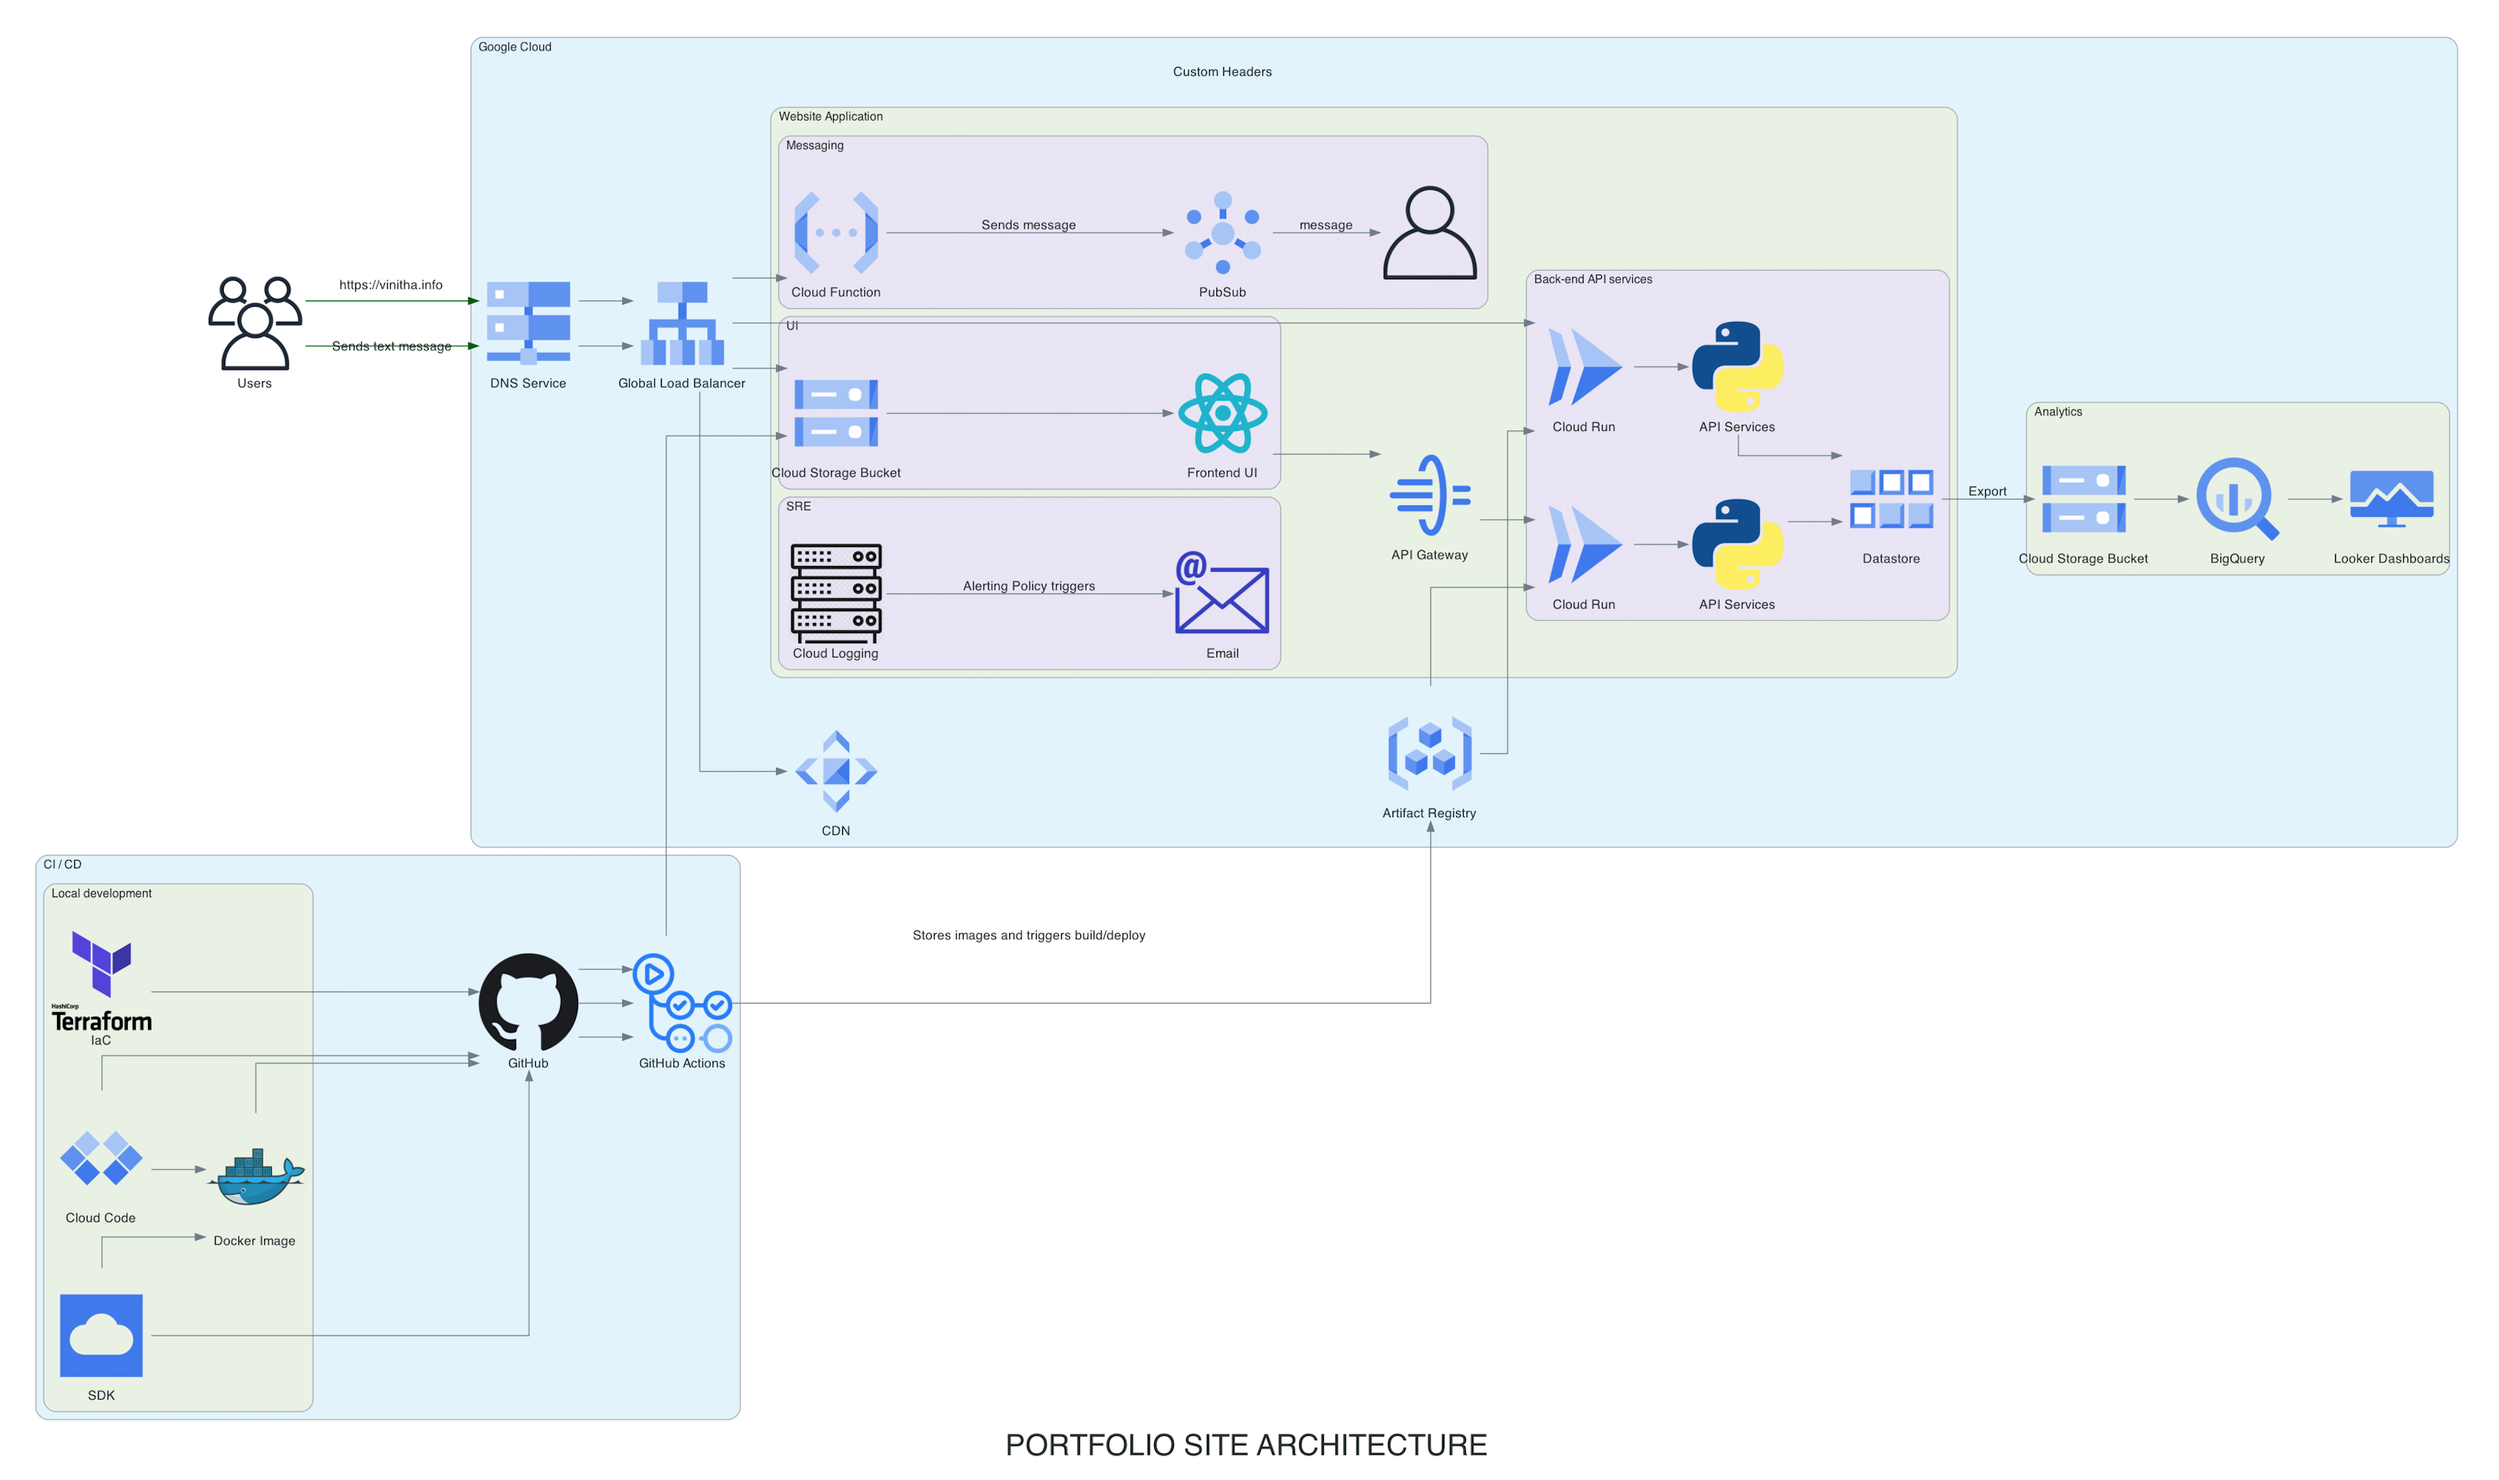
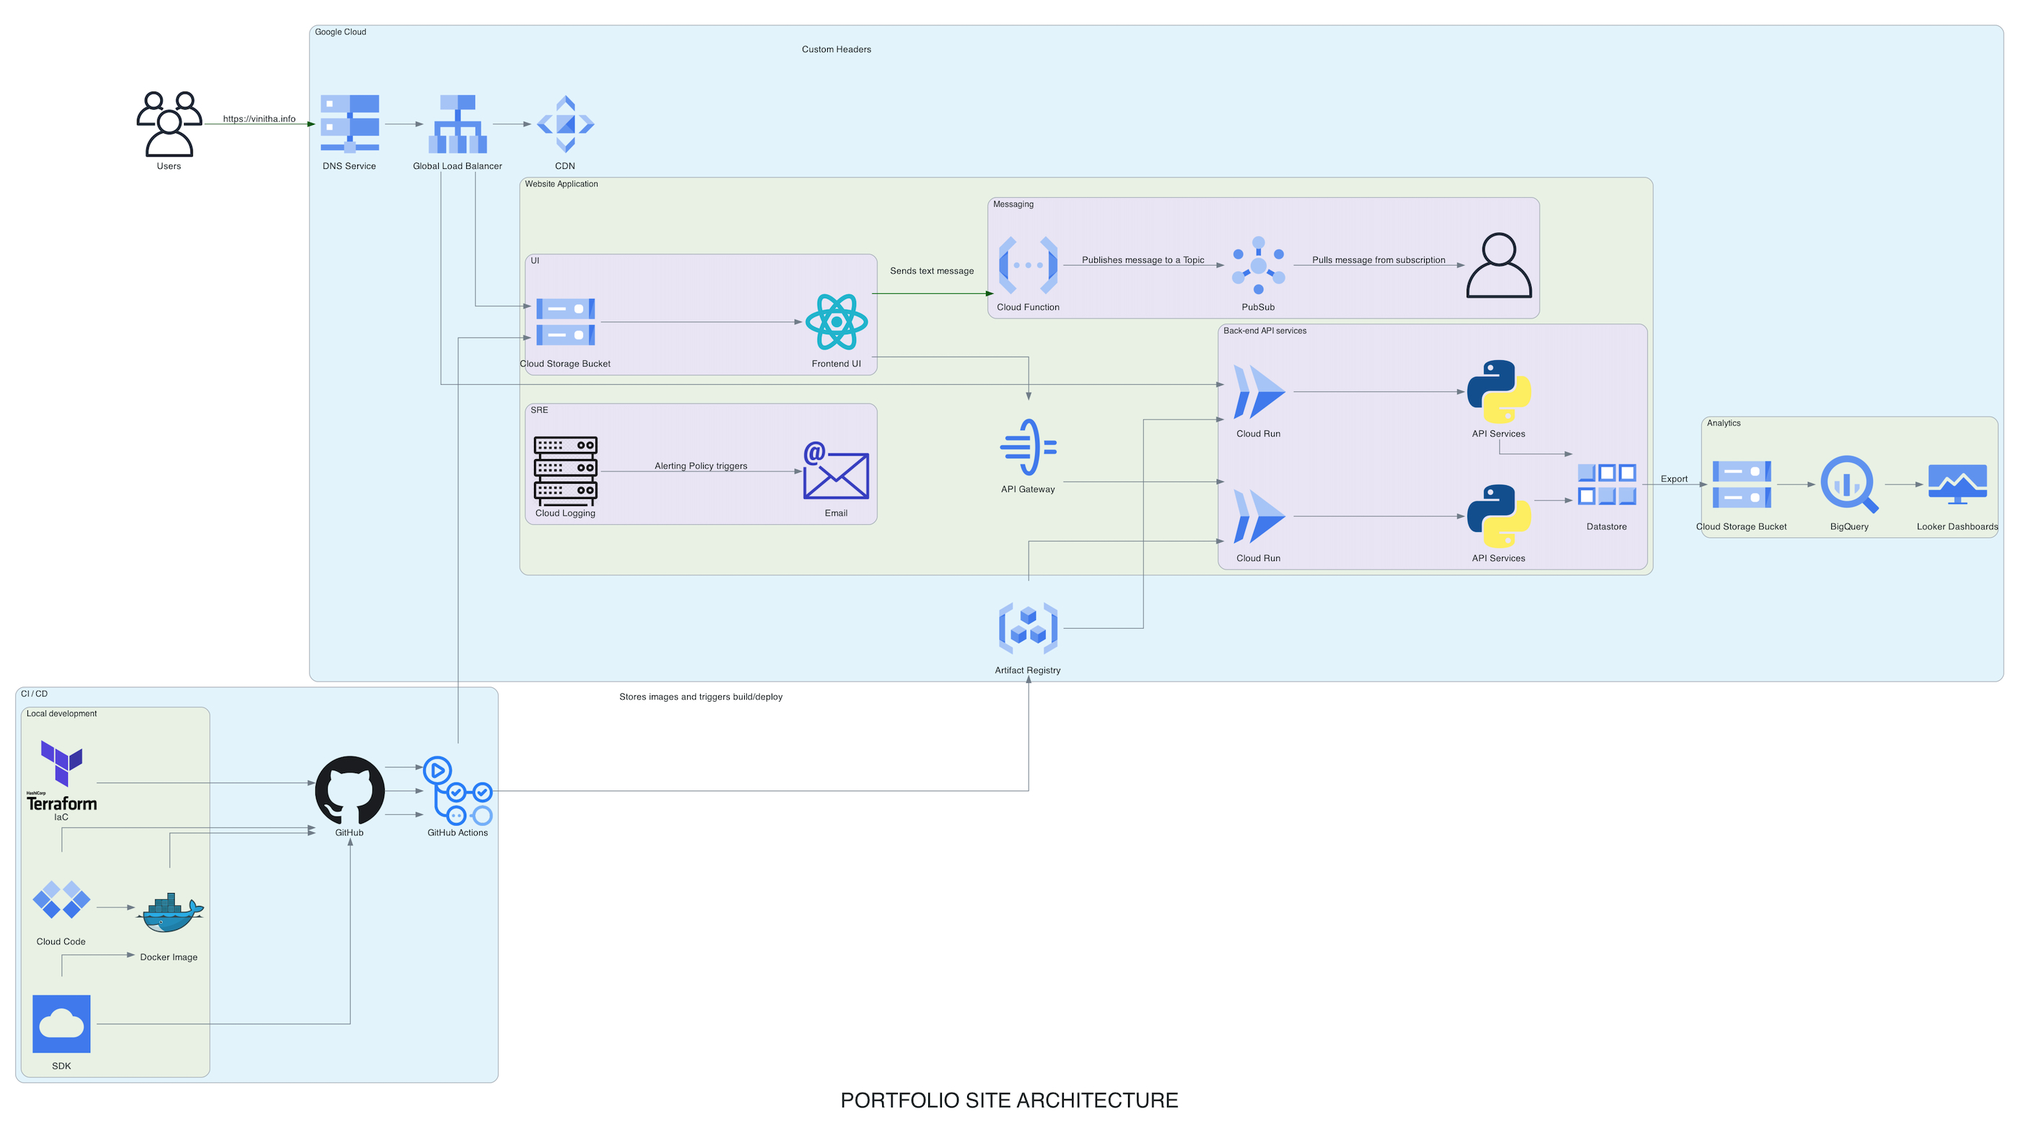
arch updates

diff --git a/src/components/Architecture.js b/src/components/Architecture.js
@@ -3,6 +3,7 @@ import Arch from "../images/architecture.jpg";
 import Geo from "../images/geo_profile.jpg";
 import Image from "react-bootstrap/Image";
 import Card from "react-bootstrap/Card";
+import { NavLink } from "react-router-dom";
 import BackToTop from "./BackToTop";
 
 const Architecture = () => {
@@ -11,7 +12,7 @@ const Architecture = () => {
       <div className="bg-light p-5 rounded-lg fluid mt-3">
         <h1 className="display-6">What's hapenning behind the scenes...</h1>
         <p className="lead mt-4 fw-bold">
-          The rationale behind hosting this site
+          The Concept - Rationale behind hosting this site
         </p>
         <p className="lead mt-4">
           The purpose behind building this site was to showcase some of my
@@ -21,11 +22,12 @@ const Architecture = () => {
           understanding of the various tools and technologies.
         </p>
         <p className="lead mt-4">
-          I have been incorporated a good number of native Cloud Architecture
-          principles, like High Availability, Serverless, decoupled services,
-          analytics, automation, SRE etc., in the design of this website.
+          I have incorporated a good number of native Cloud Architecture
+          principles, like ensuring High Availability, Serverless, decoupled
+          services, analytics, automation, security, SRE etc., into the design
+          of this website.
         </p>
-        <p className="lead mt-4 fw-bold">The architecture</p>
+        <p className="lead mt-4 fw-bold">The Architecture</p>
 
         <Image
           src={Arch}
@@ -34,74 +36,129 @@ const Architecture = () => {
         />
 
         <Card border="light">
-          <Card.Header className="fw-bold">Static Website</Card.Header>
+          <Card.Header className="lead fw-bold">
+            Static Website Hosting
+          </Card.Header>
           <Card.Body>
             <Card.Title>Frontend UI</Card.Title>
             <Card.Text>
-              Some quick example text to build on the card title and make up the
-              bulk of the card's content.
+              The frontend is built using React as a Single Page Application
+              with all routing done on client side, to reduce trips to server.
+              The styling has been done with customized Bootstrap and Tailwind
+              CSS. The static files are hosted and served from a Cloud Storage
+              (GCS) bucket and cached via CDN to improve latency.
             </Card.Text>
             <Card.Title>Network Services</Card.Title>
             <Card.Text>
-              Some quick example text to build on the card title and make up the
-              bulk of the card's content.
+              The Global HTTP(S) (layer 7) Load Balancer receives the client
+              requests and routes them to the GCS bucket, following the DNS name
+              resolution by the DNS Service. The CDN is configured to serve
+              static cached content. The Load Balancer allows for custom header
+              configuration, and this helps with collecting metrics regarding
+              the visitor traffic (shown in the Analytics section below.)
+            </Card.Text>
+            <Card.Title>Messaging</Card.Title>
+            <Card.Text>
+              The frontend application has a contact form which when filled and
+              submitted, triggers an Axios API call to the Cloud Function
+              (Function-as-a-Service), coded in Python, to publish the message
+              to a PubSub Topic.
             </Card.Text>
           </Card.Body>
         </Card>
         <Card border="light">
-          <Card.Header className="fw-bold">Backend</Card.Header>
+          <Card.Header className="lead fw-bold">Backend</Card.Header>
           <Card.Body>
-            <Card.Title>API Gateway</Card.Title>
-            <Card.Text>
-              Some quick example text to build on the card title and make up the
-              bulk of the card's content.
-            </Card.Text>
             <Card.Title>Cloud Run</Card.Title>
             <Card.Text>
-              Some quick example text to build on the card title and make up the
-              bulk of the card's content.
+              The backend APIs help with metrics collection on the visitor
+              traffic. The APIs have been scripted using Python, with Flask
+              (WSGI framework) and hosted on Cloud Run, which is a serverless
+              Container-as-a-Service. The deployment is done using Docker
+              images, which are hosted on the Artifact Registry. Stats on the
+              visitor traffic and page visits are captured and persisted in
+              Datastore, which is a document NoSQL database.
+            </Card.Text>
+            <Card.Title>API Gateway</Card.Title>
+            <Card.Text>
+              The API requests from the frontend are routed to Cloud Run via the
+              API Gateway, which is configured using the OpenAPI specification
+              in yaml.
+            </Card.Text>
+            <Card.Title>Security</Card.Title>
+            <Card.Text>
+              For authorizations, dedicated Service Accounts are configured for
+              interaction between GCP services.
             </Card.Text>
           </Card.Body>
         </Card>
         <Card border="light">
-          <Card.Header className="fw-bold">Automation</Card.Header>
+          <Card.Header className="lead fw-bold">Automation</Card.Header>
           <Card.Body>
             <Card.Title>Infrastructure-as-Code</Card.Title>
             <Card.Text>
-              Some quick example text to build on the card title and make up the
-              bulk of the card's content.
+              The deployment of some of the resources, such as, the GCS, API
+              Gateway, LB, Google Artifact Registry is automated using Terraform
+              and the infrastruction provisioned using GitHub Actions.
             </Card.Text>
             <Card.Title>CI / CD</Card.Title>
             <Card.Text>
-              Some quick example text to build on the card title and make up the
-              bulk of the card's content.
+              Local IDE with Cloud Code SDK is used for development of the
+              frontend and backend services and all changes are git controlled
+              and synched with a GitHub repository. Using GitHub actions, the
+              deployment to Cloud Run using Docker images, gets triggered based
+              on pushing the code to GitHub. The build and deployment of the
+              frontend application code to GCS is also automated.
             </Card.Text>
-          </Card.Body>
-        </Card>
-        <Card border="light">
-          <Card.Header className="fw-bold">Messaging</Card.Header>
-          <Card.Body>
-            <Card.Title>Infrastructure-as-Code</Card.Title>
+            <Card.Title>Security</Card.Title>
             <Card.Text>
-              Some quick example text to build on the card title and make up the
-              bulk of the card's content.
+              For authorizations, Workload Identity Federation is used for
+              automated deployments.
             </Card.Text>
           </Card.Body>
         </Card>
         <Card border="light">
-          <Card.Header className="fw-bold">Analytics</Card.Header>
+          <Card.Header className="lead fw-bold">Analytics</Card.Header>
           <Card.Body>
+            <Card.Title>Datastore to BigQuery data export</Card.Title>
+            <Card.Text>
+              The data on site traffic, is exported from Datastore to a GCS
+              bucket and then imported into a BigQuery Dataset Table from GCS.
+              This table is then used for dashboard visualizations via Looker
+              Studio, as shown below.
+            </Card.Text>
             <Card.Title>Geographical profile of visitors</Card.Title>
             <Image
               src={Geo}
               alt="Geo Profile"
-              className="rounded mx-auto d-block mt-4 fluid"
+              className="rounded mx-auto d-block mt-2 fluid"
             />
-            <Card.Text>
-              Some quick example text to build on the card title and make up the
-              bulk of the card's content.
+            <Card.Text className="mt-2">
+              Some other simple stats collected and processed can be seen{" "}
+              <NavLink
+                className="no-underline"
+                style={{ color: "#80f" }}
+                to={"/personal"}
+              >
+                here
+              </NavLink>
+              .
             </Card.Text>
           </Card.Body>
+          <Card border="light">
+            <Card.Header className="lead fw-bold">
+              Site Reliability Engineering
+            </Card.Header>
+            <Card.Body>
+              <Card.Title>Cloud Logging and Monitoring</Card.Title>
+              <Card.Text>
+                All GCP services generate logs in Cloud Logging. Alerting
+                policies have been configured to send email notifications on
+                certain metrics, such as errors reported in the deployed
+                application, 404 status codes etc.
+              </Card.Text>
+            </Card.Body>
+          </Card>
         </Card>
 
         <BackToTop />

diff --git a/src/components/Personal.js b/src/components/Personal.js
@@ -1,5 +1,6 @@
 import React, { useState } from "react";
 import VS from "../images/VS_capri.jpg";
+import LinkedIn from "../images/linkedin.svg";
 import Badge from "react-bootstrap/Badge";
 import Button from "react-bootstrap/Button";
 import Alert from "react-bootstrap/Alert";
@@ -10,6 +11,7 @@ import Modal from "react-bootstrap/Modal";
 import axios from "axios";
 import { ToastContainer, toast } from "react-toastify";
 import "react-toastify/dist/ReactToastify.css";
+import validator from "validator";
 
 const CF_URL =
   "https://us-central1-resume-ch.cloudfunctions.net/visitors_msg_cf";
@@ -37,16 +39,20 @@ const Personal = ({ v_count, page_count }) => {
     e.preventDefault();
     const msg = { vname: vname, vemail: vemail, vmessage: vmessage };
     console.log(msg);
-    try {
-      toast.info("Sending Message... please wait");
-      const res_cf = await axios.post(`${CF_URL}`, msg, config);
-      toast.success("Message sent successfully!");
-      console.log(res_cf.data);
-    } catch (error) {
-      console.log(error);
-      toast.error(error.message);
+    if (!validator.isEmail(vemail)) {
+      toast.error("Please enter a valid email address");
+    } else {
+      try {
+        toast.info("Sending Message... please wait");
+        const res_cf = await axios.post(`${CF_URL}`, msg, config);
+        toast.success("Message sent successfully!");
+        console.log(res_cf.data);
+      } catch (error) {
+        console.log(error);
+        toast.error(error.message);
+      }
+      handleClose();
     }
-    handleClose();
   }
 
   // const sendMsg = (e) => {
@@ -165,6 +171,15 @@ const Personal = ({ v_count, page_count }) => {
             </Button>
           </Modal.Footer>
         </Modal>
+        <div className="mt-3">
+          <a
+            href="http://www.linkedin.com/in/vinithasivaraman"
+            target="_blank"
+            rel="noopener noreferrer"
+          >
+            <img src={LinkedIn} className="h-7 w-7" alt="" />
+          </a>
+        </div>
         <Alert variant="dark" className="mt-4">
           <span className="fw-bold">Impressions</span>
           <div>

diff --git a/src/components/Experience.js b/src/components/Experience.js
@@ -94,6 +94,9 @@ const Experience = () => {
           );
         })}
       </VerticalTimeline>
+      <p className="lead mt-4 fw-bold fst-italic">
+        ** Detailed CV & References available upon request
+      </p>
       <BackToTop />
     </div>
   );
